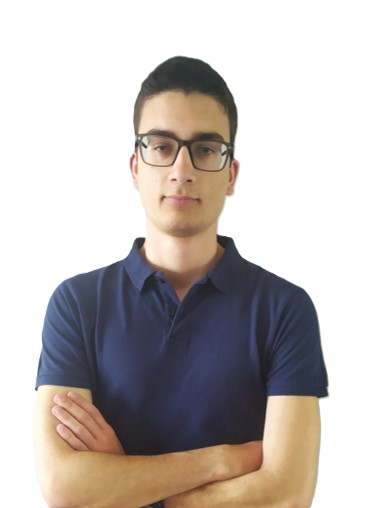
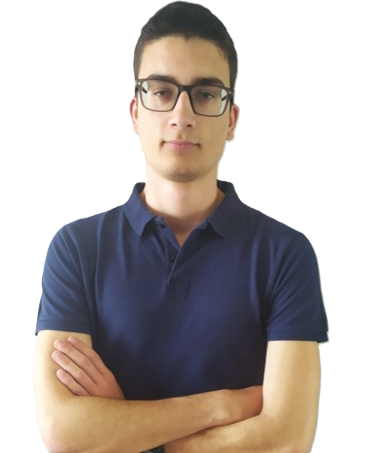
Fixed filter bar for real

diff --git a/src/components/FilterPanel.jsx b/src/components/FilterPanel.jsx
@@ -10,7 +10,7 @@ export default function FilterPanel({
 }) {
     const [openDropdown, setOpenDropdown] = useState(null);
     const drawerRef = useRef(null);
-    const containerRef = useRef(null);
+    const measureRef = useRef(null);
     const [needsStackLayout, setNeedsStackLayout] = useState(false);
 
     // Close dropdown on outside click
@@ -30,36 +30,21 @@ export default function FilterPanel({
         }
     }, [openDropdown]);
 
-    // Check if buttons fit in one row by measuring in a temporary container
+    // Check if all items (including label + Clear all) fit in one row
     useEffect(() => {
         const checkFitness = () => {
-            if (!containerRef.current) return;
-            const container = containerRef.current;
-            
-            // Temporarily force one-row layout to get true measurement
-            const originalDisplay = container.style.display;
-            const originalFlexWrap = container.style.flexWrap;
-            container.style.display = "flex";
-            container.style.flexWrap = "nowrap";
-            
-            // Get the width needed if everything is in one row
-            const neededWidth = container.scrollWidth;
-            const availableWidth = container.parentElement?.clientWidth || 0;
-            
-            // Restore original styles
-            container.style.display = originalDisplay;
-            container.style.flexWrap = originalFlexWrap;
-            
-            setNeedsStackLayout(neededWidth > availableWidth);
+            if (!measureRef.current) return;
+            const el = measureRef.current;
+            setNeedsStackLayout(el.scrollWidth > el.clientWidth);
         };
 
-        // Small delay to ensure DOM is ready
-        const timer = setTimeout(checkFitness, 0);
+        checkFitness();
         window.addEventListener("resize", checkFitness);
+        const timer = setTimeout(checkFitness, 100);
 
         return () => {
-            clearTimeout(timer);
             window.removeEventListener("resize", checkFitness);
+            clearTimeout(timer);
         };
     }, [filters, personal]);
 
@@ -70,6 +55,25 @@ export default function FilterPanel({
 
     return (
         <>
+            {/* Hidden measurement row: always renders full single-row layout */}
+            <div
+                ref={measureRef}
+                aria-hidden="true"
+                className="flex gap-3 items-center overflow-hidden pointer-events-none"
+                style={{ height: 0, visibility: 'hidden' }}
+            >
+                <span className="text-sm text-gray-400 mr-1 whitespace-nowrap">Filters:</span>
+                {filters.map((f) => (
+                    <Fragment key={f.id}>
+                        <span className="px-3 py-1.5 text-sm whitespace-nowrap">{f.label} ▾</span>
+                        {personal && f.id.includes("acad") && (
+                            <span className="px-3 py-1.5 text-sm whitespace-nowrap">Personal</span>
+                        )}
+                    </Fragment>
+                ))}
+                <span className="ml-auto text-sm whitespace-nowrap">Clear all</span>
+            </div>
+
             {/* FILTER BAR */}
             {/* Stacked header: Filters label and Clear all - shown when buttons don't fit */}
             {needsStackLayout && (
@@ -86,13 +90,14 @@ export default function FilterPanel({
 
             {/* Buttons container */}
             <div 
-                ref={containerRef}
-                className="flex gap-3 mb-4 items-center overflow-x-auto no-scrollbar"
+                className={`flex gap-3 mb-4 items-center no-scrollbar ${needsStackLayout ? 'overflow-x-auto' : ''}`}
             >
-                {/* Always rendered so scrollWidth includes them — hidden in two-row mode */}
-                <span className={`text-sm text-gray-400 mr-1 shrink-0 ${needsStackLayout ? "hidden" : ""}`}>
-                    Filters:
-                </span>
+                {/* Label: shown only when everything fits in one row */}
+                {!needsStackLayout && (
+                    <span className="text-sm text-gray-400 mr-1">
+                        Filters:
+                    </span>
+                )}
                 {filters.map((f) => (
                     <Fragment key={f.id}>
                         <FilterDropdown
@@ -123,13 +128,15 @@ export default function FilterPanel({
                     </Fragment>
                 ))}
 
-                {/* Always rendered so scrollWidth includes it — hidden in two-row mode */}
-                <button
-                    onClick={onClearAll}
-                    className={`ml-auto text-sm text-gray-400 hover:text-white whitespace-nowrap shrink-0 ${needsStackLayout ? "hidden" : ""}`}
-                >
-                    Clear all
-                </button>
+                {/* Clear all button: shown only when everything fits in one row */}
+                {!needsStackLayout && (
+                    <button
+                        onClick={onClearAll}
+                        className="ml-auto text-sm text-gray-400 hover:text-white whitespace-nowrap"
+                    >
+                        Clear all
+                    </button>
+                )}
             </div>
 
             {/* DRAWERS */}

diff --git a/src/components/Cover.jsx b/src/components/Cover.jsx
@@ -61,7 +61,7 @@ export default function Cover({ activeSection, onJump }) {
             <img
               src="res/profile_torso.png"
               alt="Eduardo Santos"
-              className="w-40 h-40 sm:w-52 sm:h-52 rounded-3xl object-cover border border-gray-800 shadow-2xl"
+              className="w-40 h-40 sm:w-52 sm:h-52 rounded-3xl object-contain shadow-2xl"
             />
           </div>
 

diff --git a/src/components/Layout.jsx b/src/components/Layout.jsx
@@ -119,7 +119,7 @@ export default function Layout() {
         />
 
         {/* MAIN CONTENT */}
-        <main className="w-full py-6">
+        <main className="w-full pb-6">
             <section id="skills" className={`px-6 lg:px-10 py-16 border-b border-gray-800 transition-colors duration-300 ${
               activeSection === "skills" ? "bg-gray-900/25" : ""
             }`}>

diff --git a/src/components/SidebarNav.jsx b/src/components/SidebarNav.jsx
@@ -17,7 +17,7 @@ export default function SidebarNav({ activeSection, visible, onJump }) {
         <img
           src="res/profile_torso.png"
           alt="Eduardo Santos"
-          className="w-20 h-20 rounded-2xl object-cover border border-gray-800"
+          className="w-20 h-20 rounded-2xl object-contain"
         />
 
         <div>
